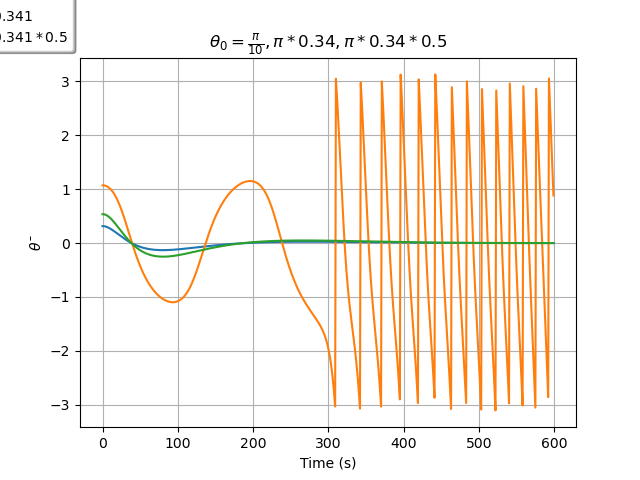
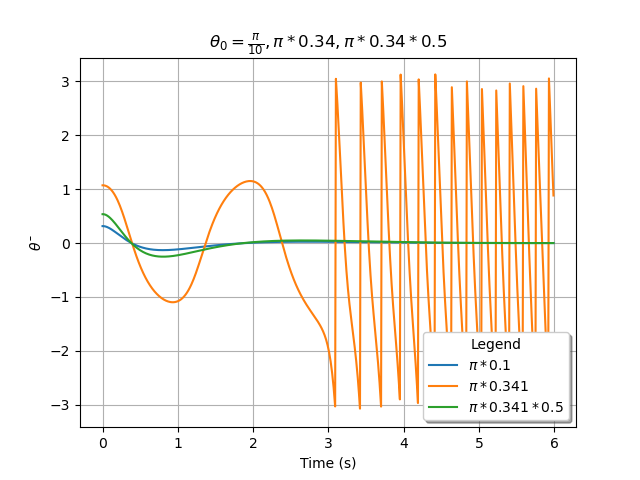
Beautified theta_pi_10 png

diff --git a/lqr.py b/lqr.py
@@ -154,7 +154,7 @@ if __name__ == '__main__':
         print('valid episode: {}'.format(valid_episode))
 
         # Data for plotting
-        t = np.arange(0, env.planning_steps)#*0.01
+        t = np.arange(0, env.planning_steps)*env.tau
         #
         #
         actual_theta_list = np.array(actual_theta_list)
@@ -165,8 +165,7 @@ if __name__ == '__main__':
     ax.set(xlabel='Time (s)', ylabel='$\\theta$ֿ',
            title='$\\theta_0={\\frac{\pi}{10},\pi*0.34,\pi*0.34*0.5}$')
     ax.grid()
-    leg = ax.legend(loc="lower right", bbox_to_anchor=[0, 1],
-                     ncol=1, shadow=True, title="Legend")
+    leg = ax.legend(loc="lower right", ncol=1, shadow=True, title="Legend")
     fig.savefig("theta_pi_10.png")
     plt.show()
 
